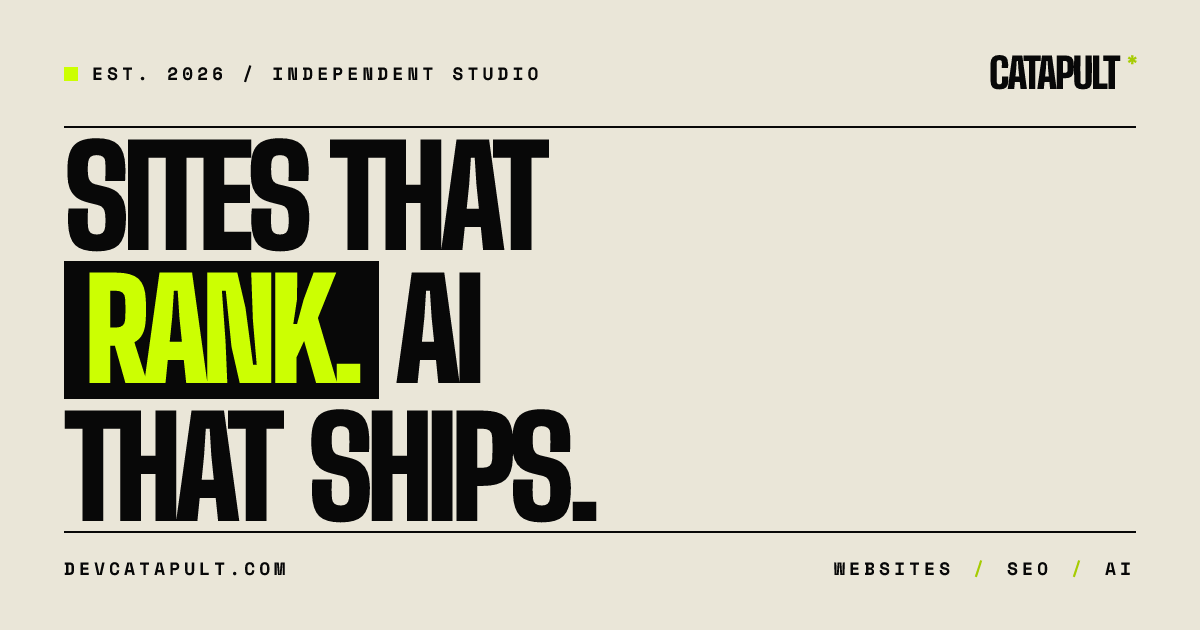
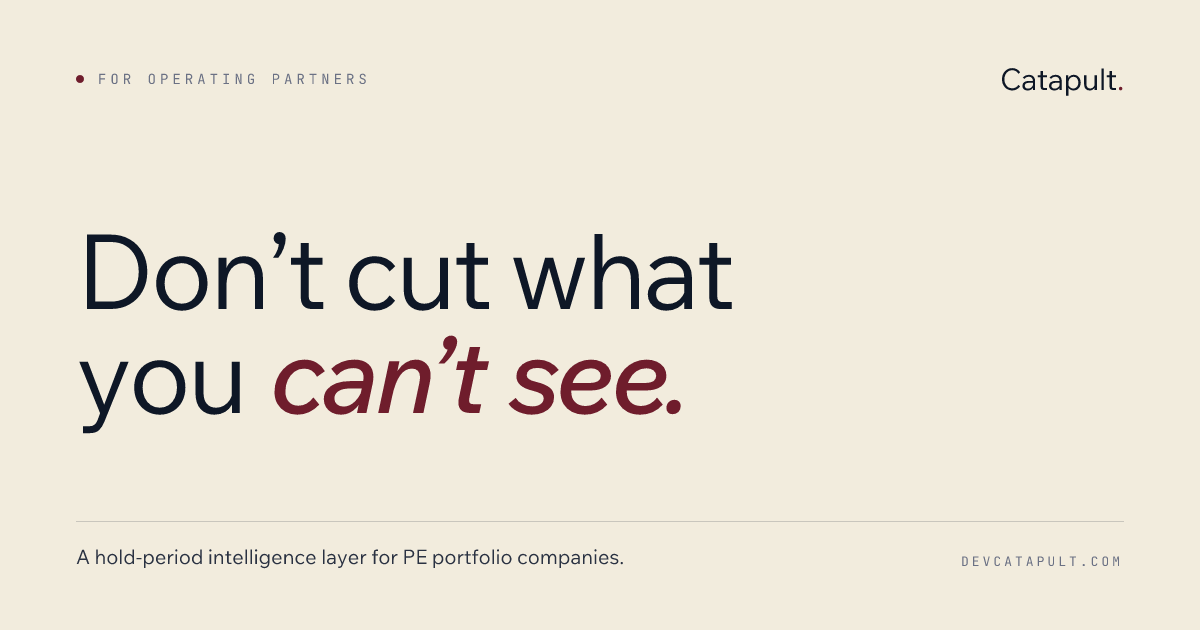
chore: regenerate OG image for the new positioning
Replace the brutalist "Sites that rank. AI that ships." OG card with
the current hook: "Don't cut what you can't see." Paper background,
ink headline, oxblood italic emphasis. Wordmark + sub line + URL.

- Rewrite scripts/build-og.mjs with the new palette and typography
- Add Wix Madefor Text (Regular + Medium Italic) and JetBrains Mono
  font files used by Satori
- Update og:image:alt to describe the new card

diff --git a/components/Container.js b/components/Container.js
@@ -32,12 +32,12 @@ export default function Container(props) {
         <meta property="og:image" content={meta.image} />
         <meta property="og:image:width" content="1200" />
         <meta property="og:image:height" content="630" />
-        <meta property="og:image:alt" content="Catapult." />
+        <meta property="og:image:alt" content="Catapult — don't cut what you can't see." />
         <meta name="twitter:card" content="summary_large_image" />
         <meta name="twitter:title" content={meta.title} />
         <meta name="twitter:description" content={meta.description} />
         <meta name="twitter:image" content={meta.image} />
-        <meta name="twitter:image:alt" content="Catapult." />
+        <meta name="twitter:image:alt" content="Catapult — don't cut what you can't see." />
       </Head>
       <a href="#main" className="skip-nav">
         Skip to content